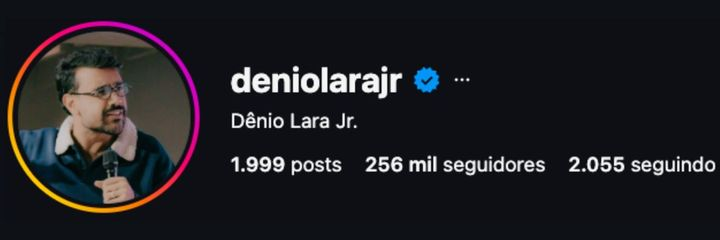
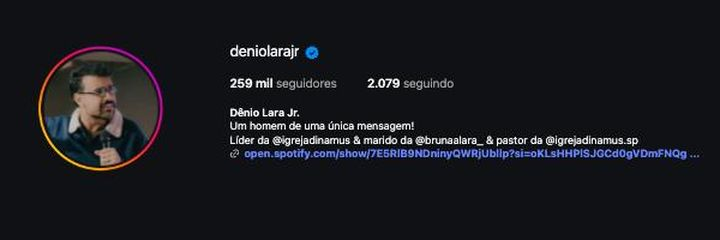
Proposta Legacy IA (19/10/2026 19:22) com o vídeo

Changed region(s): [[0.0, 0.0583, 1.0, 0.9042], [0.3056, 0.175, 0.6722, 0.4083]]

diff --git a/proposta-legacy.html b/proposta-legacy.html
@@ -798,13 +798,13 @@ html.cenas .caret { animation: an-caret .8s steps(1) infinite }
   <div class="sec">Quem já aplicou o método</div>
   <h2 class="h2-menor">O método que está dentro da Legacy <em>já levou essas pessoas longe.</em></h2>
   <p class="lead">Mentorados da Promov que aplicaram o mesmo método de conteúdo que você usa na plataforma.</p>
-  <div class="corre casebar" role="region" aria-label="Cases: o perfil antes e depois de aplicar o método" tabindex="0"><div class="corre-trilho" style="--dur:95s"><div class="corre-g"><figure class="case" data-ba data-antes="68 mil" data-depois="256 mil"><div class="ba"><img src="propostas/legacy/ba-denio-a.jpg" alt="Perfil de Dênio Lara antes" width="720" height="240" class="ba-a" loading="lazy" decoding="async"><img src="propostas/legacy/ba-denio-d.jpg" alt="Perfil de Dênio Lara depois" width="720" height="240" class="ba-d" loading="lazy" decoding="async"><i class="ba-linha" aria-hidden="true"></i><span class="selo selo-a" aria-hidden="true">Antes</span><span class="selo selo-d" aria-hidden="true">Depois</span></div><figcaption><b class="case-n">Dênio Lara</b><span class="ba-num"><b class="ba-n">256 mil</b> seguidores</span><small>de 68 mil para 256 mil no Instagram</small></figcaption></figure><figure class="case" data-ba data-antes="16 mil" data-depois="204 mil"><div class="ba"><img src="propostas/legacy/ba-alexsandra-a.jpg" alt="Perfil de Alexsandra Sardinha antes" width="720" height="240" class="ba-a" loading="lazy" decoding="async"><img src="propostas/legacy/ba-alexsandra-d.jpg" alt="Perfil de Alexsandra Sardinha depois" width="720" height="240" class="ba-d" loading="lazy" decoding="async"><i class="ba-linha" aria-hidden="true"></i><span class="selo selo-a" aria-hidden="true">Antes</span><span class="selo selo-d" aria-hidden="true">Depois</span></div><figcaption><b class="case-n">Alexsandra Sardinha</b><span class="ba-num"><b class="ba-n">204 mil</b> seguidores</span><small>de 16 mil para 204 mil no Instagram</small></figcaption></figure><figure class="case" data-ba data-antes="2.654" data-depois="178 mil"><div class="ba"><img src="propostas/legacy/ba-leticia-a.jpg" alt="Perfil de Dra. Letícia Bolentine antes" width="720" height="240" class="ba-a" loading="lazy" decoding="async"><img src="propostas/legacy/ba-leticia-d.jpg" alt="Perfil de Dra. Letícia Bolentine depois" width="720" height="240" class="ba-d" loading="lazy" decoding="async"><i class="ba-linha" aria-hidden="true"></i><span class="selo selo-a" aria-hidden="true">Antes</span><span class="selo selo-d" aria-hidden="true">Depois</span></div><figcaption><b class="case-n">Dra. Letícia Bolentine</b><span class="ba-num"><b class="ba-n">178 mil</b> seguidores</span><small>de 2.654 para 178 mil no Instagram</small></figcaption></figure><figure class="case" data-ba data-antes="2.254" data-depois="129 mil"><div class="ba"><img src="propostas/legacy/ba-diego-a.jpg" alt="Perfil de Diego Ângelo antes" width="720" height="240" class="ba-a" loading="lazy" decoding="async"><img src="propostas/legacy/ba-diego-d.jpg" alt="Perfil de Diego Ângelo depois" width="720" height="240" class="ba-d" loading="lazy" decoding="async"><i class="ba-linha" aria-hidden="true"></i><span class="selo selo-a" aria-hidden="true">Antes</span><span class="selo selo-d" aria-hidden="true">Depois</span></div><figcaption><b class="case-n">Diego Ângelo</b><span class="ba-num"><b class="ba-n">129 mil</b> seguidores</span><small>de 2.254 para 129 mil no Instagram</small></figcaption></figure><figure class="case" data-ba data-antes="6 mil" data-depois="+200 mil"><div class="ba"><img src="propostas/legacy/ba-stecca-a.jpg" alt="Perfil de João Stecca antes" width="720" height="240" class="ba-a" loading="lazy" decoding="async"><img src="propostas/legacy/ba-stecca-d.jpg" alt="Perfil de João Stecca depois" width="720" height="240" class="ba-d" loading="lazy" decoding="async"><i class="ba-linha" aria-hidden="true"></i><span class="selo selo-a" aria-hidden="true">Antes</span><span class="selo selo-d" aria-hidden="true">Depois</span></div><figcaption><span class="case-tag">Quem criou o método, no próprio perfil</span><b class="case-n">João Stecca</b><span class="ba-num"><b class="ba-n">+200 mil</b> seguidores</span><small>de 6 mil para +200 mil no Instagram</small></figcaption></figure><figure class="case" data-ba data-antes="9 mil" data-depois="77,7 mil"><div class="ba"><img src="propostas/legacy/ba-aline-a.jpg" alt="Perfil de Aline Resende antes" width="720" height="240" class="ba-a" loading="lazy" decoding="async"><img src="propostas/legacy/ba-aline-d.jpg" alt="Perfil de Aline Resende depois" width="720" height="240" class="ba-d" loading="lazy" decoding="async"><i class="ba-linha" aria-hidden="true"></i><span class="selo selo-a" aria-hidden="true">Antes</span><span class="selo selo-d" aria-hidden="true">Depois</span></div><figcaption><b class="case-n">Aline Resende</b><span class="ba-num"><b class="ba-n">77,7 mil</b> seguidores</span><small>de 9 mil para 77,7 mil no Instagram</small></figcaption></figure><figure class="case" data-ba data-antes="537" data-depois="62,1 mil"><div class="ba"><img src="propostas/legacy/ba-fabio-a.jpg" alt="Perfil de Fabio Pires antes" width="720" height="240" class="ba-a" loading="lazy" decoding="async"><img src="propostas/legacy/ba-fabio-d.jpg" alt="Perfil de Fabio Pires depois" width="720" height="240" class="ba-d" loading="lazy" decoding="async"><i class="ba-linha" aria-hidden="true"></i><span class="selo selo-a" aria-hidden="true">Antes</span><span class="selo selo-d" aria-hidden="true">Depois</span></div><figcaption><b class="case-n">Fabio Pires</b><span class="ba-num"><b class="ba-n">62,1 mil</b> seguidores</span><small>de 537 para 62,1 mil no Instagram</small></figcaption></figure></div><div class="corre-g corre-dup" aria-hidden="true"><figure class="case" data-ba data-antes="68 mil" data-depois="256 mil"><div class="ba"><img src="propostas/legacy/ba-denio-a.jpg" alt="Perfil de Dênio Lara antes" width="720" height="240" class="ba-a" loading="lazy" decoding="async"><img src="propostas/legacy/ba-denio-d.jpg" alt="Perfil de Dênio Lara depois" width="720" height="240" class="ba-d" loading="lazy" decoding="async"><i class="ba-linha" aria-hidden="true"></i><span class="selo selo-a" aria-hidden="true">Antes</span><span class="selo selo-d" aria-hidden="true">Depois</span></div><figcaption><b class="case-n">Dênio Lara</b><span class="ba-num"><b class="ba-n">256 mil</b> seguidores</span><small>de 68 mil para 256 mil no Instagram</small></figcaption></figure><figure class="case" data-ba data-antes="16 mil" data-depois="204 mil"><div class="ba"><img src="propostas/legacy/ba-alexsandra-a.jpg" alt="Perfil de Alexsandra Sardinha antes" width="720" height="240" class="ba-a" loading="lazy" decoding="async"><img src="propostas/legacy/ba-alexsandra-d.jpg" alt="Perfil de Alexsandra Sardinha depois" width="720" height="240" class="ba-d" loading="lazy" decoding="async"><i class="ba-linha" aria-hidden="true"></i><span class="selo selo-a" aria-hidden="true">Antes</span><span class="selo selo-d" aria-hidden="true">Depois</span></div><figcaption><b class="case-n">Alexsandra Sardinha</b><span class="ba-num"><b class="ba-n">204 mil</b> seguidores</span><small>de 16 mil para 204 mil no Instagram</small></figcaption></figure><figure class="case" data-ba data-antes="2.654" data-depois="178 mil"><div class="ba"><img src="propostas/legacy/ba-leticia-a.jpg" alt="Perfil de Dra. Letícia Bolentine antes" width="720" height="240" class="ba-a" loading="lazy" decoding="async"><img src="propostas/legacy/ba-leticia-d.jpg" alt="Perfil de Dra. Letícia Bolentine depois" width="720" height="240" class="ba-d" loading="lazy" decoding="async"><i class="ba-linha" aria-hidden="true"></i><span class="selo selo-a" aria-hidden="true">Antes</span><span class="selo selo-d" aria-hidden="true">Depois</span></div><figcaption><b class="case-n">Dra. Letícia Bolentine</b><span class="ba-num"><b class="ba-n">178 mil</b> seguidores</span><small>de 2.654 para 178 mil no Instagram</small></figcaption></figure><figure class="case" data-ba data-antes="2.254" data-depois="129 mil"><div class="ba"><img src="propostas/legacy/ba-diego-a.jpg" alt="Perfil de Diego Ângelo antes" width="720" height="240" class="ba-a" loading="lazy" decoding="async"><img src="propostas/legacy/ba-diego-d.jpg" alt="Perfil de Diego Ângelo depois" width="720" height="240" class="ba-d" loading="lazy" decoding="async"><i class="ba-linha" aria-hidden="true"></i><span class="selo selo-a" aria-hidden="true">Antes</span><span class="selo selo-d" aria-hidden="true">Depois</span></div><figcaption><b class="case-n">Diego Ângelo</b><span class="ba-num"><b class="ba-n">129 mil</b> seguidores</span><small>de 2.254 para 129 mil no Instagram</small></figcaption></figure><figure class="case" data-ba data-antes="6 mil" data-depois="+200 mil"><div class="ba"><img src="propostas/legacy/ba-stecca-a.jpg" alt="Perfil de João Stecca antes" width="720" height="240" class="ba-a" loading="lazy" decoding="async"><img src="propostas/legacy/ba-stecca-d.jpg" alt="Perfil de João Stecca depois" width="720" height="240" class="ba-d" loading="lazy" decoding="async"><i class="ba-linha" aria-hidden="true"></i><span class="selo selo-a" aria-hidden="true">Antes</span><span class="selo selo-d" aria-hidden="true">Depois</span></div><figcaption><span class="case-tag">Quem criou o método, no próprio perfil</span><b class="case-n">João Stecca</b><span class="ba-num"><b class="ba-n">+200 mil</b> seguidores</span><small>de 6 mil para +200 mil no Instagram</small></figcaption></figure><figure class="case" data-ba data-antes="9 mil" data-depois="77,7 mil"><div class="ba"><img src="propostas/legacy/ba-aline-a.jpg" alt="Perfil de Aline Resende antes" width="720" height="240" class="ba-a" loading="lazy" decoding="async"><img src="propostas/legacy/ba-aline-d.jpg" alt="Perfil de Aline Resende depois" width="720" height="240" class="ba-d" loading="lazy" decoding="async"><i class="ba-linha" aria-hidden="true"></i><span class="selo selo-a" aria-hidden="true">Antes</span><span class="selo selo-d" aria-hidden="true">Depois</span></div><figcaption><b class="case-n">Aline Resende</b><span class="ba-num"><b class="ba-n">77,7 mil</b> seguidores</span><small>de 9 mil para 77,7 mil no Instagram</small></figcaption></figure><figure class="case" data-ba data-antes="537" data-depois="62,1 mil"><div class="ba"><img src="propostas/legacy/ba-fabio-a.jpg" alt="Perfil de Fabio Pires antes" width="720" height="240" class="ba-a" loading="lazy" decoding="async"><img src="propostas/legacy/ba-fabio-d.jpg" alt="Perfil de Fabio Pires depois" width="720" height="240" class="ba-d" loading="lazy" decoding="async"><i class="ba-linha" aria-hidden="true"></i><span class="selo selo-a" aria-hidden="true">Antes</span><span class="selo selo-d" aria-hidden="true">Depois</span></div><figcaption><b class="case-n">Fabio Pires</b><span class="ba-num"><b class="ba-n">62,1 mil</b> seguidores</span><small>de 537 para 62,1 mil no Instagram</small></figcaption></figure></div></div></div>
+  <div class="corre casebar" role="region" aria-label="Cases: o perfil antes e depois de aplicar o método" tabindex="0"><div class="corre-trilho" style="--dur:95s"><div class="corre-g"><figure class="case" data-ba data-antes="68 mil" data-depois="259 mil"><div class="ba"><img src="propostas/legacy/ba-denio-a.jpg" alt="Perfil de Dênio Lara antes" width="720" height="240" class="ba-a" loading="lazy" decoding="async"><img src="propostas/legacy/ba-denio-d.jpg" alt="Perfil de Dênio Lara depois" width="720" height="240" class="ba-d" loading="lazy" decoding="async"><i class="ba-linha" aria-hidden="true"></i><span class="selo selo-a" aria-hidden="true">Antes</span><span class="selo selo-d" aria-hidden="true">Depois</span></div><figcaption><b class="case-n">Dênio Lara</b><span class="ba-num"><b class="ba-n">259 mil</b> seguidores</span><small>de 68 mil para 259 mil no Instagram</small></figcaption></figure><figure class="case" data-ba data-antes="15,8 mil" data-depois="205 mil"><div class="ba"><img src="propostas/legacy/ba-alexsandra-a.jpg" alt="Perfil de Alexsandra Sardinha antes" width="720" height="240" class="ba-a" loading="lazy" decoding="async"><img src="propostas/legacy/ba-alexsandra-d.jpg" alt="Perfil de Alexsandra Sardinha depois" width="720" height="240" class="ba-d" loading="lazy" decoding="async"><i class="ba-linha" aria-hidden="true"></i><span class="selo selo-a" aria-hidden="true">Antes</span><span class="selo selo-d" aria-hidden="true">Depois</span></div><figcaption><b class="case-n">Alexsandra Sardinha</b><span class="ba-num"><b class="ba-n">205 mil</b> seguidores</span><small>de 15,8 mil para 205 mil no Instagram</small></figcaption></figure><figure class="case" data-ba data-antes="2.654" data-depois="186 mil"><div class="ba"><img src="propostas/legacy/ba-leticia-a.jpg" alt="Perfil de Dra. Letícia Bolentine antes" width="720" height="240" class="ba-a" loading="lazy" decoding="async"><img src="propostas/legacy/ba-leticia-d.jpg" alt="Perfil de Dra. Letícia Bolentine depois" width="720" height="240" class="ba-d" loading="lazy" decoding="async"><i class="ba-linha" aria-hidden="true"></i><span class="selo selo-a" aria-hidden="true">Antes</span><span class="selo selo-d" aria-hidden="true">Depois</span></div><figcaption><b class="case-n">Dra. Letícia Bolentine</b><span class="ba-num"><b class="ba-n">186 mil</b> seguidores</span><small>de 2.654 para 186 mil no Instagram</small></figcaption></figure><figure class="case" data-ba data-antes="0" data-depois="134 mil"><div class="ba"><img src="propostas/legacy/ba-diego-a.jpg" alt="Perfil de Diego Ângelo antes" width="720" height="240" class="ba-a" loading="lazy" decoding="async"><img src="propostas/legacy/ba-diego-d.jpg" alt="Perfil de Diego Ângelo depois" width="720" height="240" class="ba-d" loading="lazy" decoding="async"><i class="ba-linha" aria-hidden="true"></i><span class="selo selo-a" aria-hidden="true">Antes</span><span class="selo selo-d" aria-hidden="true">Depois</span></div><figcaption><b class="case-n">Diego Ângelo</b><span class="ba-num"><b class="ba-n">134 mil</b> seguidores</span><small>de 0 para 134 mil no Instagram</small></figcaption></figure><figure class="case" data-ba data-antes="6.700" data-depois="277 mil"><div class="ba"><img src="propostas/legacy/ba-stecca-a.jpg" alt="Perfil de João Stecca antes" width="720" height="240" class="ba-a" loading="lazy" decoding="async"><img src="propostas/legacy/ba-stecca-d.jpg" alt="Perfil de João Stecca depois" width="720" height="240" class="ba-d" loading="lazy" decoding="async"><i class="ba-linha" aria-hidden="true"></i><span class="selo selo-a" aria-hidden="true">Antes</span><span class="selo selo-d" aria-hidden="true">Depois</span></div><figcaption><span class="case-tag">Quem criou o método, no próprio perfil</span><b class="case-n">João Stecca</b><span class="ba-num"><b class="ba-n">277 mil</b> seguidores</span><small>de 6.700 para 277 mil no Instagram</small></figcaption></figure><figure class="case" data-ba data-antes="10,3 mil" data-depois="90,1 mil"><div class="ba"><img src="propostas/legacy/ba-aline-a.jpg" alt="Perfil de Aline Resende antes" width="720" height="240" class="ba-a" loading="lazy" decoding="async"><img src="propostas/legacy/ba-aline-d.jpg" alt="Perfil de Aline Resende depois" width="720" height="240" class="ba-d" loading="lazy" decoding="async"><i class="ba-linha" aria-hidden="true"></i><span class="selo selo-a" aria-hidden="true">Antes</span><span class="selo selo-d" aria-hidden="true">Depois</span></div><figcaption><b class="case-n">Aline Resende</b><span class="ba-num"><b class="ba-n">90,1 mil</b> seguidores</span><small>de 10,3 mil para 90,1 mil no Instagram</small></figcaption></figure><figure class="case" data-ba data-antes="537" data-depois="62,6 mil"><div class="ba"><img src="propostas/legacy/ba-fabio-a.jpg" alt="Perfil de Fabio Pires antes" width="720" height="240" class="ba-a" loading="lazy" decoding="async"><img src="propostas/legacy/ba-fabio-d.jpg" alt="Perfil de Fabio Pires depois" width="720" height="240" class="ba-d" loading="lazy" decoding="async"><i class="ba-linha" aria-hidden="true"></i><span class="selo selo-a" aria-hidden="true">Antes</span><span class="selo selo-d" aria-hidden="true">Depois</span></div><figcaption><b class="case-n">Fabio Pires</b><span class="ba-num"><b class="ba-n">62,6 mil</b> seguidores</span><small>de 537 para 62,6 mil no Instagram</small></figcaption></figure></div><div class="corre-g corre-dup" aria-hidden="true"><figure class="case" data-ba data-antes="68 mil" data-depois="259 mil"><div class="ba"><img src="propostas/legacy/ba-denio-a.jpg" alt="Perfil de Dênio Lara antes" width="720" height="240" class="ba-a" loading="lazy" decoding="async"><img src="propostas/legacy/ba-denio-d.jpg" alt="Perfil de Dênio Lara depois" width="720" height="240" class="ba-d" loading="lazy" decoding="async"><i class="ba-linha" aria-hidden="true"></i><span class="selo selo-a" aria-hidden="true">Antes</span><span class="selo selo-d" aria-hidden="true">Depois</span></div><figcaption><b class="case-n">Dênio Lara</b><span class="ba-num"><b class="ba-n">259 mil</b> seguidores</span><small>de 68 mil para 259 mil no Instagram</small></figcaption></figure><figure class="case" data-ba data-antes="15,8 mil" data-depois="205 mil"><div class="ba"><img src="propostas/legacy/ba-alexsandra-a.jpg" alt="Perfil de Alexsandra Sardinha antes" width="720" height="240" class="ba-a" loading="lazy" decoding="async"><img src="propostas/legacy/ba-alexsandra-d.jpg" alt="Perfil de Alexsandra Sardinha depois" width="720" height="240" class="ba-d" loading="lazy" decoding="async"><i class="ba-linha" aria-hidden="true"></i><span class="selo selo-a" aria-hidden="true">Antes</span><span class="selo selo-d" aria-hidden="true">Depois</span></div><figcaption><b class="case-n">Alexsandra Sardinha</b><span class="ba-num"><b class="ba-n">205 mil</b> seguidores</span><small>de 15,8 mil para 205 mil no Instagram</small></figcaption></figure><figure class="case" data-ba data-antes="2.654" data-depois="186 mil"><div class="ba"><img src="propostas/legacy/ba-leticia-a.jpg" alt="Perfil de Dra. Letícia Bolentine antes" width="720" height="240" class="ba-a" loading="lazy" decoding="async"><img src="propostas/legacy/ba-leticia-d.jpg" alt="Perfil de Dra. Letícia Bolentine depois" width="720" height="240" class="ba-d" loading="lazy" decoding="async"><i class="ba-linha" aria-hidden="true"></i><span class="selo selo-a" aria-hidden="true">Antes</span><span class="selo selo-d" aria-hidden="true">Depois</span></div><figcaption><b class="case-n">Dra. Letícia Bolentine</b><span class="ba-num"><b class="ba-n">186 mil</b> seguidores</span><small>de 2.654 para 186 mil no Instagram</small></figcaption></figure><figure class="case" data-ba data-antes="0" data-depois="134 mil"><div class="ba"><img src="propostas/legacy/ba-diego-a.jpg" alt="Perfil de Diego Ângelo antes" width="720" height="240" class="ba-a" loading="lazy" decoding="async"><img src="propostas/legacy/ba-diego-d.jpg" alt="Perfil de Diego Ângelo depois" width="720" height="240" class="ba-d" loading="lazy" decoding="async"><i class="ba-linha" aria-hidden="true"></i><span class="selo selo-a" aria-hidden="true">Antes</span><span class="selo selo-d" aria-hidden="true">Depois</span></div><figcaption><b class="case-n">Diego Ângelo</b><span class="ba-num"><b class="ba-n">134 mil</b> seguidores</span><small>de 0 para 134 mil no Instagram</small></figcaption></figure><figure class="case" data-ba data-antes="6.700" data-depois="277 mil"><div class="ba"><img src="propostas/legacy/ba-stecca-a.jpg" alt="Perfil de João Stecca antes" width="720" height="240" class="ba-a" loading="lazy" decoding="async"><img src="propostas/legacy/ba-stecca-d.jpg" alt="Perfil de João Stecca depois" width="720" height="240" class="ba-d" loading="lazy" decoding="async"><i class="ba-linha" aria-hidden="true"></i><span class="selo selo-a" aria-hidden="true">Antes</span><span class="selo selo-d" aria-hidden="true">Depois</span></div><figcaption><span class="case-tag">Quem criou o método, no próprio perfil</span><b class="case-n">João Stecca</b><span class="ba-num"><b class="ba-n">277 mil</b> seguidores</span><small>de 6.700 para 277 mil no Instagram</small></figcaption></figure><figure class="case" data-ba data-antes="10,3 mil" data-depois="90,1 mil"><div class="ba"><img src="propostas/legacy/ba-aline-a.jpg" alt="Perfil de Aline Resende antes" width="720" height="240" class="ba-a" loading="lazy" decoding="async"><img src="propostas/legacy/ba-aline-d.jpg" alt="Perfil de Aline Resende depois" width="720" height="240" class="ba-d" loading="lazy" decoding="async"><i class="ba-linha" aria-hidden="true"></i><span class="selo selo-a" aria-hidden="true">Antes</span><span class="selo selo-d" aria-hidden="true">Depois</span></div><figcaption><b class="case-n">Aline Resende</b><span class="ba-num"><b class="ba-n">90,1 mil</b> seguidores</span><small>de 10,3 mil para 90,1 mil no Instagram</small></figcaption></figure><figure class="case" data-ba data-antes="537" data-depois="62,6 mil"><div class="ba"><img src="propostas/legacy/ba-fabio-a.jpg" alt="Perfil de Fabio Pires antes" width="720" height="240" class="ba-a" loading="lazy" decoding="async"><img src="propostas/legacy/ba-fabio-d.jpg" alt="Perfil de Fabio Pires depois" width="720" height="240" class="ba-d" loading="lazy" decoding="async"><i class="ba-linha" aria-hidden="true"></i><span class="selo selo-a" aria-hidden="true">Antes</span><span class="selo selo-d" aria-hidden="true">Depois</span></div><figcaption><b class="case-n">Fabio Pires</b><span class="ba-num"><b class="ba-n">62,6 mil</b> seguidores</span><small>de 537 para 62,6 mil no Instagram</small></figcaption></figure></div></div></div>
   <p class="nichos">A Promov já ajudou a impulsionar centenas de perfis pequenos, de diversos nichos: psiquiatria, pastores, finanças, moda, terapeutas, desenvolvimento pessoal.</p>
   <div class="t3">Conteúdos de quem aplica o método <span>com as visualizações</span></div>
   <div class="corre reels" role="region" aria-label="Conteúdos de quem aplica o método, com as visualizações" tabindex="0"><div class="corre-trilho" style="--dur:60s"><div class="corre-g"><img src="propostas/legacy/reel-6.webp" alt="Capa de um conteúdo com o número de visualizações" width="300" height="470" class="reel" loading="lazy" decoding="async"><img src="propostas/legacy/reel-7.webp" alt="Capa de um conteúdo com o número de visualizações" width="300" height="470" class="reel" loading="lazy" decoding="async"><img src="propostas/legacy/reel-8.webp" alt="Capa de um conteúdo com o número de visualizações" width="300" height="470" class="reel" loading="lazy" decoding="async"><img src="propostas/legacy/reel-9.webp" alt="Capa de um conteúdo com o número de visualizações" width="300" height="470" class="reel" loading="lazy" decoding="async"><img src="propostas/legacy/reel-11.webp" alt="Capa de um conteúdo com o número de visualizações" width="300" height="470" class="reel" loading="lazy" decoding="async"><img src="propostas/legacy/reel-12.webp" alt="Capa de um conteúdo com o número de visualizações" width="300" height="470" class="reel" loading="lazy" decoding="async"><img src="propostas/legacy/reel-13.webp" alt="Capa de um conteúdo com o número de visualizações" width="300" height="470" class="reel" loading="lazy" decoding="async"><img src="propostas/legacy/reel-18.webp" alt="Capa de um conteúdo com o número de visualizações" width="300" height="470" class="reel" loading="lazy" decoding="async"><img src="propostas/legacy/reel-20.webp" alt="Capa de um conteúdo com o número de visualizações" width="300" height="470" class="reel" loading="lazy" decoding="async"><img src="propostas/legacy/reel-24.webp" alt="Capa de um conteúdo com o número de visualizações" width="300" height="470" class="reel" loading="lazy" decoding="async"><img src="propostas/legacy/reel-25.webp" alt="Capa de um conteúdo com o número de visualizações" width="300" height="470" class="reel" loading="lazy" decoding="async"><img src="propostas/legacy/reel-26.webp" alt="Capa de um conteúdo com o número de visualizações" width="300" height="470" class="reel" loading="lazy" decoding="async"></div><div class="corre-g corre-dup" aria-hidden="true"><img src="propostas/legacy/reel-6.webp" alt="Capa de um conteúdo com o número de visualizações" width="300" height="470" class="reel" loading="lazy" decoding="async"><img src="propostas/legacy/reel-7.webp" alt="Capa de um conteúdo com o número de visualizações" width="300" height="470" class="reel" loading="lazy" decoding="async"><img src="propostas/legacy/reel-8.webp" alt="Capa de um conteúdo com o número de visualizações" width="300" height="470" class="reel" loading="lazy" decoding="async"><img src="propostas/legacy/reel-9.webp" alt="Capa de um conteúdo com o número de visualizações" width="300" height="470" class="reel" loading="lazy" decoding="async"><img src="propostas/legacy/reel-11.webp" alt="Capa de um conteúdo com o número de visualizações" width="300" height="470" class="reel" loading="lazy" decoding="async"><img src="propostas/legacy/reel-12.webp" alt="Capa de um conteúdo com o número de visualizações" width="300" height="470" class="reel" loading="lazy" decoding="async"><img src="propostas/legacy/reel-13.webp" alt="Capa de um conteúdo com o número de visualizações" width="300" height="470" class="reel" loading="lazy" decoding="async"><img src="propostas/legacy/reel-18.webp" alt="Capa de um conteúdo com o número de visualizações" width="300" height="470" class="reel" loading="lazy" decoding="async"><img src="propostas/legacy/reel-20.webp" alt="Capa de um conteúdo com o número de visualizações" width="300" height="470" class="reel" loading="lazy" decoding="async"><img src="propostas/legacy/reel-24.webp" alt="Capa de um conteúdo com o número de visualizações" width="300" height="470" class="reel" loading="lazy" decoding="async"><img src="propostas/legacy/reel-25.webp" alt="Capa de um conteúdo com o número de visualizações" width="300" height="470" class="reel" loading="lazy" decoding="async"><img src="propostas/legacy/reel-26.webp" alt="Capa de um conteúdo com o número de visualizações" width="300" height="470" class="reel" loading="lazy" decoding="async"></div></div></div>
   <div class="t3">Projetos e pessoas com quem a Promov já trabalhou</div>
   <div class="corre fams" role="region" aria-label="Projetos e pessoas com quem a Promov já trabalhou" tabindex="0"><div class="corre-trilho" style="--dur:48s"><div class="corre-g"><div class="fam"><img src="propostas/legacy/fam-claudio-duarte.jpg" alt="Cláudio Duarte" width="128" height="128" loading="lazy" decoding="async"><div><b>Cláudio Duarte</b><small>+10M seguidores</small></div></div><div class="fam"><img src="propostas/legacy/fam-tiago-brunet.jpg" alt="Tiago Brunet" width="128" height="128" loading="lazy" decoding="async"><div><b>Tiago Brunet</b><small>+7M seguidores</small></div></div><div class="fam"><img src="propostas/legacy/fam-camila-barros.jpg" alt="Camila Barros" width="128" height="128" loading="lazy" decoding="async"><div><b>Camila Barros</b><small>+4M seguidores</small></div></div><div class="fam"><img src="propostas/legacy/fam-elizeu-rodrigues.jpg" alt="Elizeu Rodrigues" width="128" height="128" loading="lazy" decoding="async"><div><b>Elizeu Rodrigues</b><small>+3M seguidores</small></div></div><div class="fam"><img src="propostas/legacy/fam-sarah-farias.jpg" alt="Sarah Farias" width="128" height="128" loading="lazy" decoding="async"><div><b>Sarah Farias</b><small>+2,8M seguidores</small></div></div><div class="fam"><img src="propostas/legacy/fam-thalitha-pereira.jpg" alt="Thalitha Pereira" width="128" height="128" loading="lazy" decoding="async"><div><b>Thalitha Pereira</b><small>+1,5M seguidores</small></div></div><div class="fam"><img src="propostas/legacy/fam-gabriela-lopes.jpg" alt="Gabriela Lopes" width="128" height="128" loading="lazy" decoding="async"><div><b>Gabriela Lopes</b><small>+1,2M seguidores</small></div></div><div class="fam"><img src="propostas/legacy/fam-helena-raquel.jpg" alt="Helena Raquel" width="128" height="128" loading="lazy" decoding="async"><div><b>Helena Raquel</b><small>+1,2M seguidores</small></div></div><div class="fam"><img src="propostas/legacy/fam-mateus-eleuterio.jpg" alt="Mateus Eleutério" width="128" height="128" loading="lazy" decoding="async"><div><b>Mateus Eleutério</b><small>+1,1M seguidores</small></div></div><div class="fam"><img src="propostas/legacy/fam-alana-anijar.jpg" alt="Alana Anijar" width="128" height="128" loading="lazy" decoding="async"><div><b>Alana Anijar</b><small>+377 mil seguidores</small></div></div><div class="fam"><img src="propostas/legacy/fam-fernanda-boaventura.jpg" alt="Fernanda Boaventura" width="128" height="128" loading="lazy" decoding="async"><div><b>Fernanda Boaventura</b><small>+358 mil seguidores</small></div></div><div class="fam"><img src="propostas/legacy/fam-davi-lago.jpg" alt="Davi Lago" width="128" height="128" loading="lazy" decoding="async"><div><b>Davi Lago</b><small>+124 mil seguidores</small></div></div></div><div class="corre-g corre-dup" aria-hidden="true"><div class="fam"><img src="propostas/legacy/fam-claudio-duarte.jpg" alt="Cláudio Duarte" width="128" height="128" loading="lazy" decoding="async"><div><b>Cláudio Duarte</b><small>+10M seguidores</small></div></div><div class="fam"><img src="propostas/legacy/fam-tiago-brunet.jpg" alt="Tiago Brunet" width="128" height="128" loading="lazy" decoding="async"><div><b>Tiago Brunet</b><small>+7M seguidores</small></div></div><div class="fam"><img src="propostas/legacy/fam-camila-barros.jpg" alt="Camila Barros" width="128" height="128" loading="lazy" decoding="async"><div><b>Camila Barros</b><small>+4M seguidores</small></div></div><div class="fam"><img src="propostas/legacy/fam-elizeu-rodrigues.jpg" alt="Elizeu Rodrigues" width="128" height="128" loading="lazy" decoding="async"><div><b>Elizeu Rodrigues</b><small>+3M seguidores</small></div></div><div class="fam"><img src="propostas/legacy/fam-sarah-farias.jpg" alt="Sarah Farias" width="128" height="128" loading="lazy" decoding="async"><div><b>Sarah Farias</b><small>+2,8M seguidores</small></div></div><div class="fam"><img src="propostas/legacy/fam-thalitha-pereira.jpg" alt="Thalitha Pereira" width="128" height="128" loading="lazy" decoding="async"><div><b>Thalitha Pereira</b><small>+1,5M seguidores</small></div></div><div class="fam"><img src="propostas/legacy/fam-gabriela-lopes.jpg" alt="Gabriela Lopes" width="128" height="128" loading="lazy" decoding="async"><div><b>Gabriela Lopes</b><small>+1,2M seguidores</small></div></div><div class="fam"><img src="propostas/legacy/fam-helena-raquel.jpg" alt="Helena Raquel" width="128" height="128" loading="lazy" decoding="async"><div><b>Helena Raquel</b><small>+1,2M seguidores</small></div></div><div class="fam"><img src="propostas/legacy/fam-mateus-eleuterio.jpg" alt="Mateus Eleutério" width="128" height="128" loading="lazy" decoding="async"><div><b>Mateus Eleutério</b><small>+1,1M seguidores</small></div></div><div class="fam"><img src="propostas/legacy/fam-alana-anijar.jpg" alt="Alana Anijar" width="128" height="128" loading="lazy" decoding="async"><div><b>Alana Anijar</b><small>+377 mil seguidores</small></div></div><div class="fam"><img src="propostas/legacy/fam-fernanda-boaventura.jpg" alt="Fernanda Boaventura" width="128" height="128" loading="lazy" decoding="async"><div><b>Fernanda Boaventura</b><small>+358 mil seguidores</small></div></div><div class="fam"><img src="propostas/legacy/fam-davi-lago.jpg" alt="Davi Lago" width="128" height="128" loading="lazy" decoding="async"><div><b>Davi Lago</b><small>+124 mil seguidores</small></div></div></div></div></div>
-  <p class="nota">Resultados da mentoria e do método da Promov, não da plataforma sozinha. Números de seguidores conforme resultados.joaostecca.com; as imagens registram os perfis em outro momento.</p>
+  <p class="nota">Resultados da mentoria e do método da Promov, não da plataforma sozinha. Os números são os dos próprios prints: o antes, de quando começaram; o depois, o perfil atual.</p>
 </div></section>
 
 <!-- ══════════ COMPARE ══════════ -->
